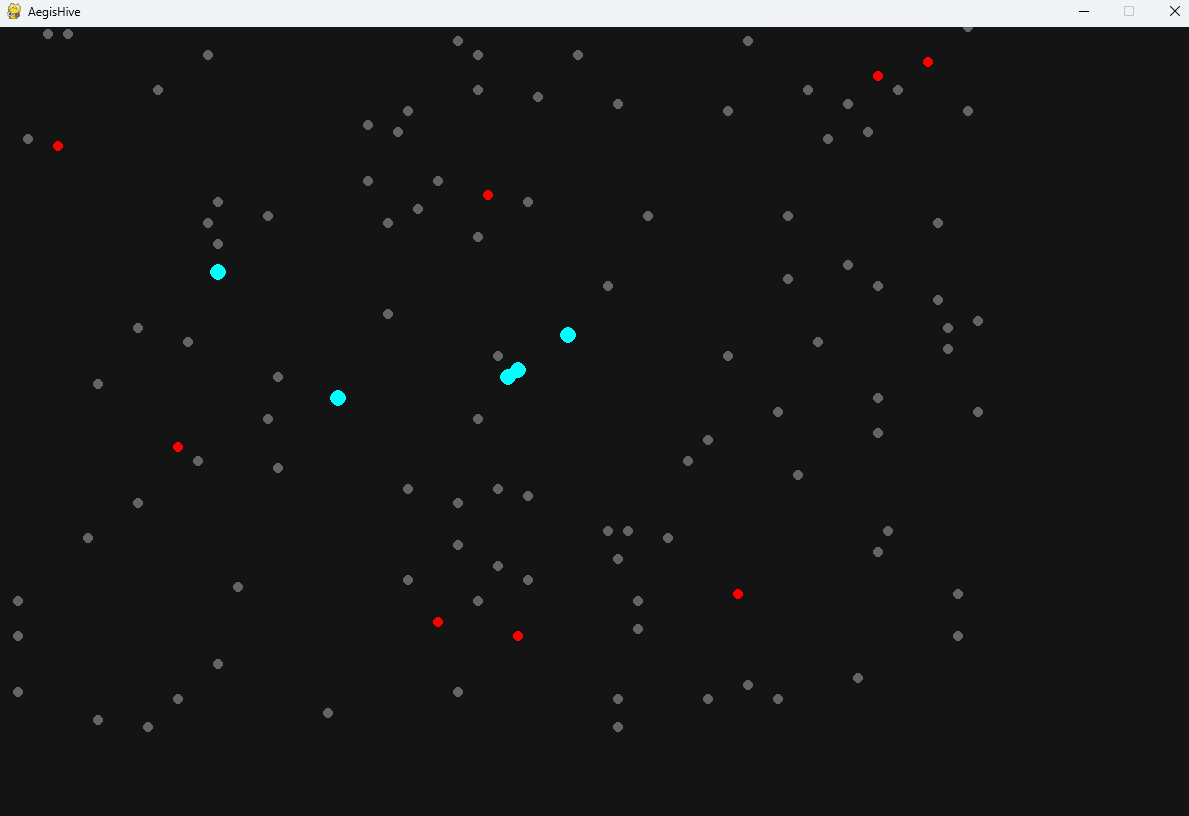
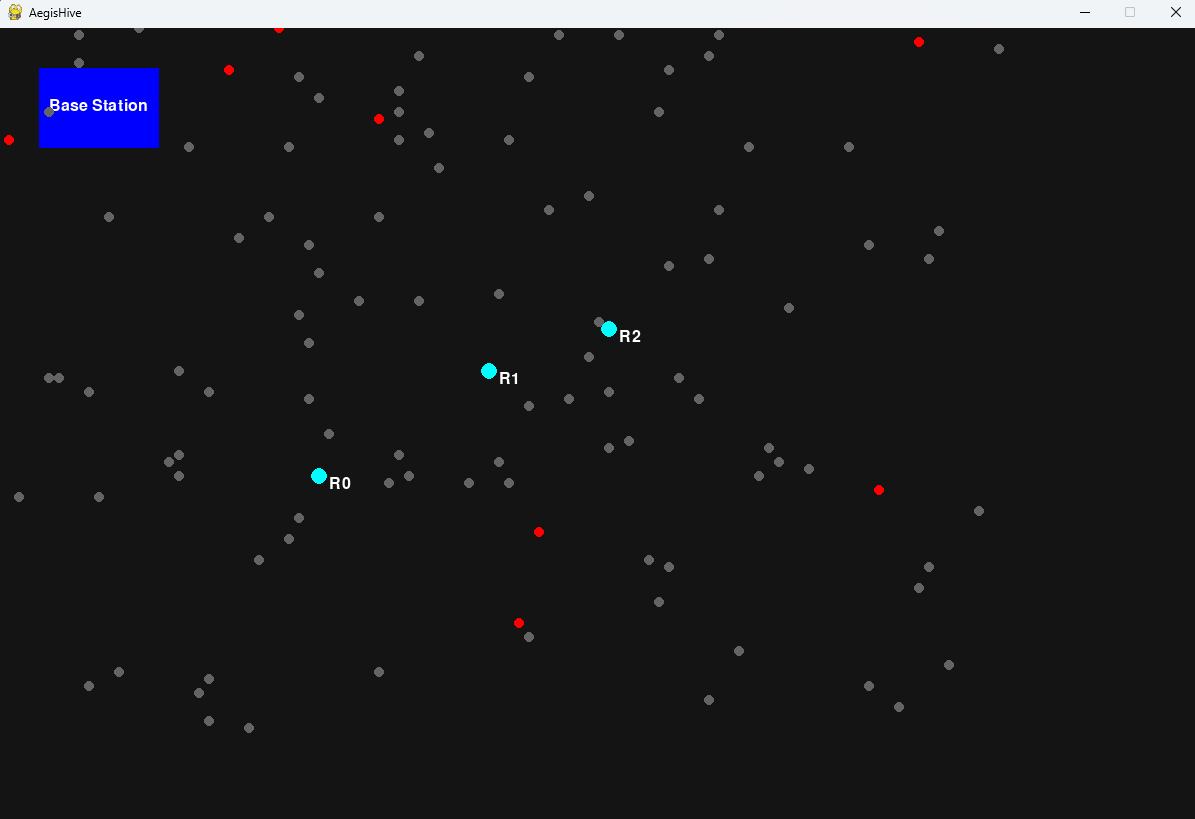
Updated final repository screenshots

diff --git a/main.py b/main.py
@@ -14,6 +14,8 @@ pygame.display.set_caption("AegisHive")
 
 clock = pygame.time.Clock()
 
+font = pygame.font.Font(None, 24)
+
 environment = DisasterEnvironment(
     MAP_WIDTH,
     MAP_HEIGHT
@@ -41,6 +43,22 @@ while running:
         if event.type == pygame.QUIT:
             running = False
 
+    # Base Station
+    pygame.draw.rect(
+        screen,
+        (0, 0, 255),
+        (40, 40, 120, 80)
+    )
+
+    base_text = font.render(
+        "Base Station",
+        True,
+        (255, 255, 255)
+    )
+
+    screen.blit(base_text, (50, 70))
+
+    # Obstacles
     for obstacle in environment.obstacles:
 
         pygame.draw.circle(
@@ -50,6 +68,7 @@ while running:
             5
         )
 
+    # Survivors
     for survivor in environment.survivors:
 
         pygame.draw.circle(
@@ -59,15 +78,40 @@ while running:
             5
         )
 
+    # Robots
     for robot in robots:
 
         robot.move()
 
+        battery_level = 100 - (robot.x % 100)
+
+        if battery_level < 20:
+
+            robot_color = (255, 0, 0)
+            status = "Returning"
+
+        else:
+
+            robot_color = (0, 255, 255)
+            status = "Active"
+
         pygame.draw.circle(
             screen,
-            (0, 255, 255),
+            robot_color,
             (robot.x * 10, robot.y * 7),
             8
+        )
+
+        # Robot Label
+        robot_label = font.render(
+            f"R{robot.robot_id}",
+            True,
+            (255, 255, 255)
+        )
+
+        screen.blit(
+            robot_label,
+            (robot.x * 10 + 10, robot.y * 7)
         )
 
         detected = robot.detect_survivor(environment)

diff --git a/config.py b/config.py
@@ -4,7 +4,7 @@ WINDOW_HEIGHT = 800
 MAP_WIDTH = 100
 MAP_HEIGHT = 100
 
-ROBOT_COUNT = 5
+ROBOT_COUNT = 3
 
 SURVIVOR_COUNT = 8
 